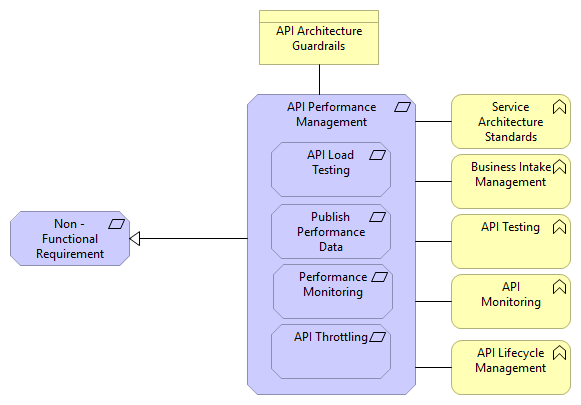
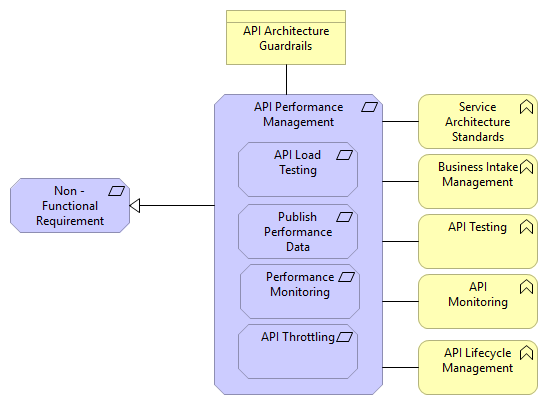
resolve conflicts

diff --git a/reports/CommonSandbox Report/e8ecca68-8692-400d-9425-b00d60784a26/views/863aa2ed-dc71-479c-94cf-414eddd8490d.html b/reports/CommonSandbox Report/e8ecca68-8692-400d-9425-b00d60784a26/views/863aa2ed-dc71-479c-94cf-414eddd8490d.html
@@ -34,19 +34,19 @@
 		    <!-- If this is a digram model (has children and no bounds) show the image -->
 			   <img class="diagram" src="../images/863aa2ed-dc71-479c-94cf-414eddd8490d.png" alt="API Performance Management" usemap="#863aa2ed-dc71-479c-94cf-414eddd8490dmap"/>
 			   <map name="863aa2ed-dc71-479c-94cf-414eddd8490dmap">
-				  		<area shape="rect" coords="451,340,571,395" href="../elements/1ffed886-217c-444f-9a2d-9b24f25cc898.html"  target="element">
-				  		<area shape="rect" coords="451,94,571,149" href="../elements/f0fcaa17-75d5-41ce-90e9-71ad8bfb59b5.html"  target="element">
-				  		<area shape="rect" coords="451,154,571,209" href="../elements/c0d19d7d-90bf-4fbb-b8d4-4c0a3e902ef8.html"  target="element">
-				  		<area shape="rect" coords="451,214,571,269" href="../elements/f63780c3-c983-4516-9da1-e0844cfd3248.html"  target="element">
-				  		<area shape="rect" coords="451,274,571,329" href="../elements/04d56aa3-18de-492c-98e1-2210b579a014.html"  target="element">
-				  		<area shape="rect" coords="259,10,379,65" href="../elements/b473190d-b5e1-4655-8c3f-bf87099ce8be.html"  target="element">
-				  		<area shape="rect" coords="10,211,130,266" href="../elements/f72a2a44-a6c2-4779-9cc0-75b9f423f653.html"  target="element">
-				  				<area shape="rect" coords="271,324,391,379" href="../elements/cd747a6c-3690-42ff-9f92-f2718206103d.html"  target="element">
-				  				<area shape="rect" coords="273,264,393,319" href="../elements/d6e4275c-94f5-473c-b5ca-eaf45a8a9f38.html"  target="element">
-				  				<area shape="rect" coords="271,204,391,259" href="../elements/2dd5ece2-f3c5-404c-a8ec-ed324ce608ad.html"  target="element">
-				  				<area shape="rect" coords="271,142,391,197" href="../elements/706f3874-21f9-4bb9-8932-ea48bef2528f.html"  target="element">
+				  		<area shape="rect" coords="418,340,538,395" href="../elements/1ffed886-217c-444f-9a2d-9b24f25cc898.html"  target="element">
+				  		<area shape="rect" coords="418,94,538,149" href="../elements/f0fcaa17-75d5-41ce-90e9-71ad8bfb59b5.html"  target="element">
+				  		<area shape="rect" coords="418,154,538,209" href="../elements/c0d19d7d-90bf-4fbb-b8d4-4c0a3e902ef8.html"  target="element">
+				  		<area shape="rect" coords="418,214,538,269" href="../elements/f63780c3-c983-4516-9da1-e0844cfd3248.html"  target="element">
+				  		<area shape="rect" coords="418,274,538,329" href="../elements/04d56aa3-18de-492c-98e1-2210b579a014.html"  target="element">
+				  		<area shape="rect" coords="226,10,346,65" href="../elements/b473190d-b5e1-4655-8c3f-bf87099ce8be.html"  target="element">
+				  		<area shape="rect" coords="10,178,130,233" href="../elements/f72a2a44-a6c2-4779-9cc0-75b9f423f653.html"  target="element">
+				  				<area shape="rect" coords="238,324,358,379" href="../elements/cd747a6c-3690-42ff-9f92-f2718206103d.html"  target="element">
+				  				<area shape="rect" coords="240,264,360,319" href="../elements/d6e4275c-94f5-473c-b5ca-eaf45a8a9f38.html"  target="element">
+				  				<area shape="rect" coords="238,204,358,259" href="../elements/2dd5ece2-f3c5-404c-a8ec-ed324ce608ad.html"  target="element">
+				  				<area shape="rect" coords="238,142,358,197" href="../elements/706f3874-21f9-4bb9-8932-ea48bef2528f.html"  target="element">
 
-				  		<area shape="rect" coords="247,94,416,395" href="../elements/1570995a-d5b9-45ac-b3e9-fff4eac89163.html"  target="element">
+				  		<area shape="rect" coords="214,94,383,395" href="../elements/1570995a-d5b9-45ac-b3e9-fff4eac89163.html"  target="element">
 
 			   </map>
 
